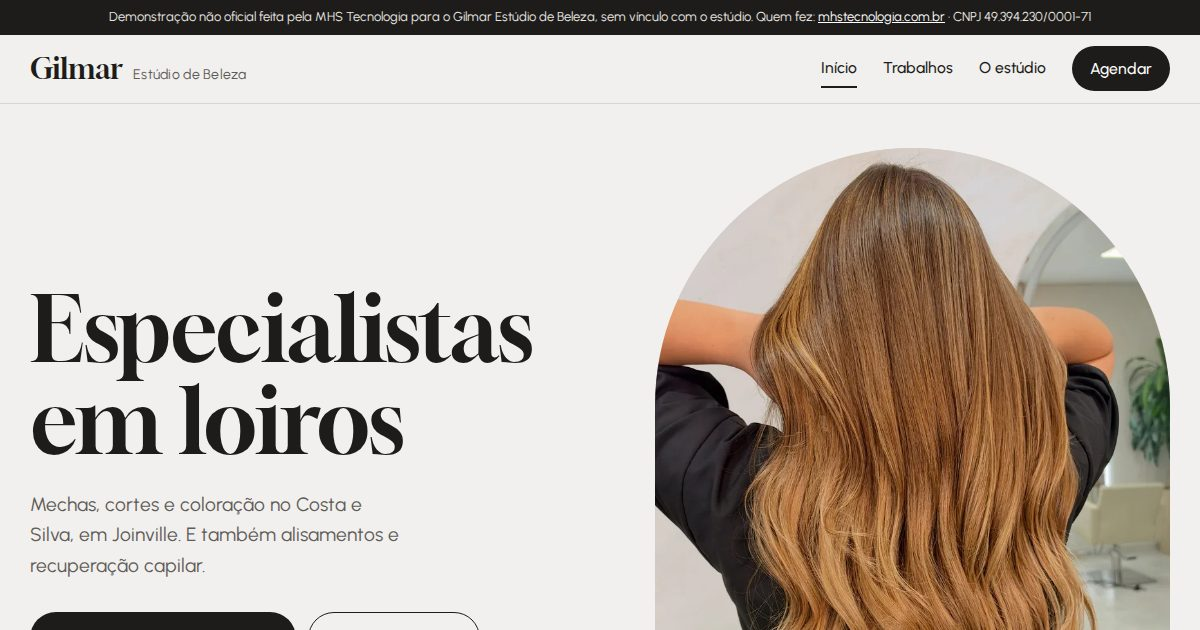
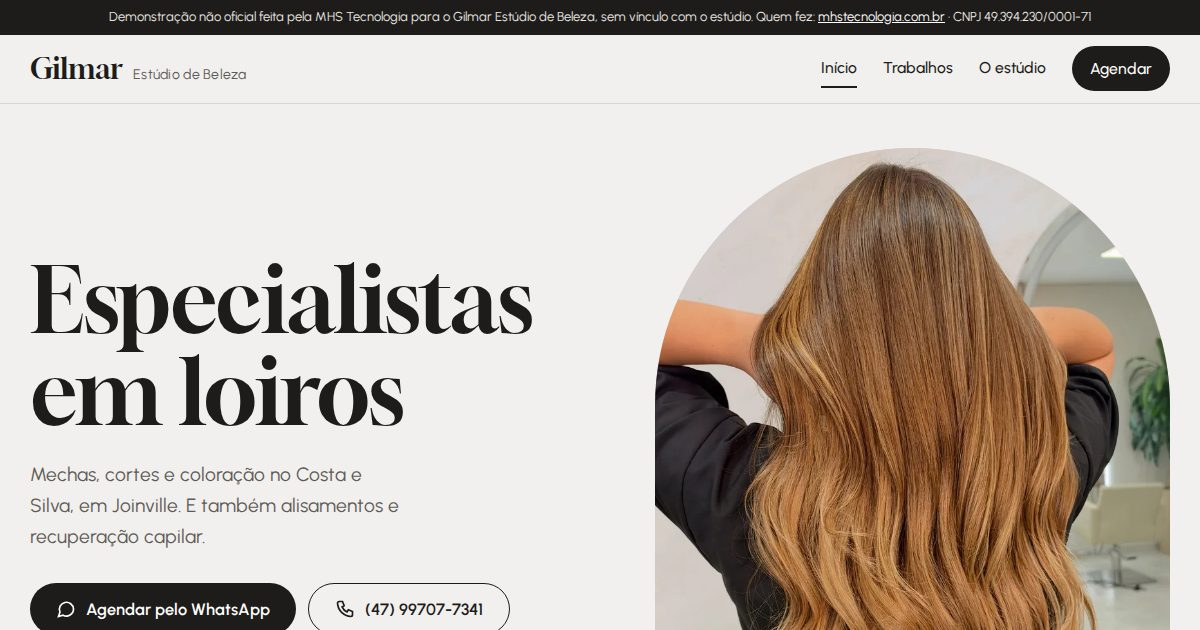
Previews: 123 ativos

Changed region(s): [[0.0308, 0.4222, 0.4625, 0.8143], [0.0, 0.8444, 0.4008, 1.0]]

diff --git a/gilmar-estudio-de-beleza-joinville-sc/trabalhos.html b/gilmar-estudio-de-beleza-joinville-sc/trabalhos.html
@@ -92,7 +92,15 @@
         <a class="btn btn-wa" href="https://wa.me/5547997077341?text=Ol%C3%A1!%20Quero%20agendar%20um%20hor%C3%A1rio%20para%20ruivo.">Quero esse tom</a>
       </div>
       <div class="fotos uma">
-        <img src="img/ruiva-600.webp" srcset="img/ruiva-600.webp 600w, img/ruiva-1000.webp 1000w" sizes="(max-width: 860px) 100vw, 560px" width="600" height="980" loading="lazy" alt="Cliente ruiva com cachos abertos, com o cabeleireiro atrás">
+        <img src="img/ruiva-600.webp" srcset="img/ruiva-600.webp 600w, img/ruiva-1000.webp 1000w" sizes="(max-width: 860px) 100vw, 440px" width="600" height="980" loading="lazy" alt="Cliente ruiva com cachos abertos, com o cabeleireiro atrás">
+        <div class="pedir">
+          <div>
+            <p class="pedir-t">Quer um ruivo assim?</p>
+            <p>Conte no WhatsApp que viu este trabalho e marque seu horário.</p>
+            <a class="btn btn-claro" href="https://wa.me/5547997077341?text=Ol%C3%A1!%20Quero%20agendar%20um%20hor%C3%A1rio%20para%20ruivo.">Agendar pelo WhatsApp</a>
+            <a class="pedir-tel" href="tel:+5547997077341">ou ligue (47) 99707-7341</a>
+          </div>
+        </div>
       </div>
     </div>
   </section>
@@ -106,7 +114,15 @@
         <a class="btn btn-wa" href="https://wa.me/5547997077341?text=Ol%C3%A1!%20Quero%20agendar%20um%20hor%C3%A1rio%20para%20corte.">Quero esse corte</a>
       </div>
       <div class="fotos uma">
-        <img src="img/brancos-curto-600.webp" srcset="img/brancos-curto-600.webp 600w, img/brancos-curto-720.webp 720w" sizes="(max-width: 860px) 100vw, 560px" width="600" height="736" loading="lazy" alt="Corte curto em cabelo branco e grisalho, visto de lado">
+        <img src="img/brancos-curto-600.webp" srcset="img/brancos-curto-600.webp 600w, img/brancos-curto-720.webp 720w" sizes="(max-width: 860px) 100vw, 440px" width="600" height="736" loading="lazy" alt="Corte curto em cabelo branco e grisalho, visto de lado">
+        <div class="pedir">
+          <div>
+            <p class="pedir-t">Quer assumir os brancos?</p>
+            <p>Conte no WhatsApp que viu este trabalho e marque seu horário.</p>
+            <a class="btn btn-claro" href="https://wa.me/5547997077341?text=Ol%C3%A1!%20Quero%20agendar%20um%20hor%C3%A1rio%20para%20corte.">Agendar pelo WhatsApp</a>
+            <a class="pedir-tel" href="tel:+5547997077341">ou ligue (47) 99707-7341</a>
+          </div>
+        </div>
       </div>
     </div>
   </section>
@@ -120,7 +136,15 @@
         <a class="btn btn-wa" href="https://wa.me/5547997077341?text=Ol%C3%A1!%20Quero%20agendar%20um%20alisamento.">Quero alisar</a>
       </div>
       <div class="fotos uma">
-        <img src="img/alisamento-600.webp" srcset="img/alisamento-600.webp 600w, img/alisamento-1000.webp 1000w" sizes="(max-width: 860px) 100vw, 560px" width="600" height="982" loading="lazy" alt="Cabelo castanho liso e brilhante, visto de costas, sendo finalizado">
+        <img src="img/alisamento-600.webp" srcset="img/alisamento-600.webp 600w, img/alisamento-1000.webp 1000w" sizes="(max-width: 860px) 100vw, 440px" width="600" height="982" loading="lazy" alt="Cabelo castanho liso e brilhante, visto de costas, sendo finalizado">
+        <div class="pedir">
+          <div>
+            <p class="pedir-t">Quer os fios lisos assim?</p>
+            <p>Conte no WhatsApp que viu este trabalho e marque seu horário.</p>
+            <a class="btn btn-claro" href="https://wa.me/5547997077341?text=Ol%C3%A1!%20Quero%20agendar%20um%20alisamento.">Agendar pelo WhatsApp</a>
+            <a class="pedir-tel" href="tel:+5547997077341">ou ligue (47) 99707-7341</a>
+          </div>
+        </div>
       </div>
     </div>
   </section>

diff --git a/gilmar-estudio-de-beleza-joinville-sc/index.html b/gilmar-estudio-de-beleza-joinville-sc/index.html
@@ -53,11 +53,12 @@
         <p class="lead">Mechas, cortes e coloração no Costa e Silva, em Joinville. E também alisamentos e recuperação capilar.</p>
         <div class="acoes">
           <a class="btn btn-wa" href="https://wa.me/5547997077341?text=Ol%C3%A1!%20Quero%20agendar%20um%20hor%C3%A1rio%20para%20loiro."><svg viewBox="0 0 24 24" fill="none" stroke="currentColor" stroke-width="2" aria-hidden="true"><path d="M21 12a8.5 8.5 0 0 1-12.6 7.4L3 21l1.7-5.2A8.5 8.5 0 1 1 21 12z"/></svg>Agendar pelo WhatsApp</a>
-          <a class="btn btn-linha" href="tel:+5547997077341">(47) 99707-7341</a>
+          <a class="btn btn-linha btn-tel" href="tel:+5547997077341" aria-label="Ligar para (47) 99707-7341"><svg viewBox="0 0 24 24" fill="none" stroke="currentColor" stroke-width="2" aria-hidden="true"><path d="M5 3h4l2 5-2.5 1.5a11 11 0 0 0 6 6L16 13l5 2v4a2 2 0 0 1-2 2A17 17 0 0 1 3 5a2 2 0 0 1 2-2z"/></svg><span class="tel-num">(47) 99707-7341</span></a>
         </div>
         <ul class="onde">
           <li><svg viewBox="0 0 24 24" fill="none" stroke="currentColor" stroke-width="2" aria-hidden="true"><path d="M12 22s7-6.2 7-12a7 7 0 1 0-14 0c0 5.8 7 12 7 12z"/><circle cx="12" cy="10" r="2.5"/></svg>R. Colibri, 43 - Costa e Silva, Joinville</li>
-          <li><svg viewBox="0 0 24 24" fill="none" stroke="currentColor" stroke-width="2" aria-hidden="true"><circle cx="12" cy="12" r="9"/><path d="M12 7v5l3 2"/></svg>Abrimos de terça à sábado</li>
+          <li class="ig"><svg viewBox="0 0 24 24" fill="none" stroke="currentColor" stroke-width="2" aria-hidden="true"><rect x="3" y="3" width="18" height="18" rx="5"/><circle cx="12" cy="12" r="4"/></svg>21,4 mil seguidores e 1.850 publicações no Instagram</li>
+          <li><svg viewBox="0 0 24 24" fill="none" stroke="currentColor" stroke-width="2" aria-hidden="true"><circle cx="12" cy="12" r="9"/><path d="M12 7v5l3 2"/></svg>De terça a sábado</li>
         </ul>
       </div>
       <div class="arco hero-foto">
@@ -125,9 +126,9 @@
         <h2 id="t-visita">Marque seu horário</h2>
         <dl class="dados">
           <dt>Endereço</dt><dd>R. Colibri, 43 - Costa e Silva, Joinville/SC</dd>
-          <dt>Dias</dt><dd>Abrimos de terça à sábado</dd>
+          <dt>Dias</dt><dd>De terça a sábado</dd>
           <dt>WhatsApp</dt><dd>(47) 99707-7341</dd>
-          <dt>Instagram</dt><dd>@gilmarestudiodebeleza</dd>
+          <dt>Instagram</dt><dd>@gilmarestudiodebeleza, 21,4 mil seguidores</dd>
         </dl>
         <div class="acoes">
           <a class="btn btn-wa" href="https://wa.me/5547997077341?text=Ol%C3%A1!%20Quero%20agendar%20um%20hor%C3%A1rio%20no%20est%C3%BAdio."><svg viewBox="0 0 24 24" fill="none" stroke="currentColor" stroke-width="2" aria-hidden="true"><path d="M21 12a8.5 8.5 0 0 1-12.6 7.4L3 21l1.7-5.2A8.5 8.5 0 1 1 21 12z"/></svg>Agendar pelo WhatsApp</a>

diff --git a/gilmar-estudio-de-beleza-joinville-sc/estilo.css b/gilmar-estudio-de-beleza-joinville-sc/estilo.css
@@ -220,3 +220,33 @@ h1,h2,h3{font-family:var(--display);font-weight:400;line-height:1.04;margin:0;le
 .lista-serv h3 a::after{content:"";position:absolute;inset:0}
 .lista-serv li{position:relative}
 .lista-serv li:has(a):hover h3{text-decoration:underline;text-decoration-thickness:2px;text-underline-offset:6px}
+/* rodada 2 */
+.fotos.uma{grid-template-columns:repeat(2,1fr)}
+.pedir{background:var(--tinta);color:#ece8e2;border-radius:4px;padding:36px 32px;display:flex;flex-direction:column;justify-content:flex-end;gap:26px;aspect-ratio:3/4}
+.pedir img{width:64px;aspect-ratio:120/420;object-fit:cover;border-radius:6px 6px 46% 46% / 6px 6px 12% 12%;margin-bottom:auto}
+.pedir .pedir-t{font-family:var(--display);font-size:clamp(1.8rem,2.8vw,2.4rem);line-height:1.08;color:#fff;margin:0 0 12px}
+.pedir p{margin:0 0 22px}
+.btn-claro{background:#fff;color:var(--tinta)}
+.btn-claro:hover{background:var(--loiro)}
+.pedir-tel{display:block;margin-top:14px;color:#fff;font-size:.95rem}
+.onde .ig{font-weight:600}
+@media (max-width:860px){
+  .fotos.uma{grid-template-columns:1fr}
+  .pedir{aspect-ratio:auto;padding:28px 24px}
+  .pedir img{display:none}
+  .mecha .nome{hyphens:manual;overflow-wrap:normal;word-break:normal;font-size:.74rem;letter-spacing:-.01em}
+  .mechas{gap:8px}
+  .aviso{font-size:.72rem;padding:6px 14px}
+  .topo-in{min-height:58px}
+  .hero{padding-top:18px}
+  .hero .lead{margin:10px 0 16px}
+  .hero-texto{padding-bottom:20px}
+  .acoes{flex-wrap:nowrap}
+  .btn-tel{width:52px;padding:0;flex:none}
+  .btn-tel .tel-num{position:absolute;width:1px;height:1px;overflow:hidden;clip:rect(0 0 0 0);white-space:nowrap}
+  .hero .acoes .btn-wa{flex:1}
+}
+@media (max-width:860px){.mecha .nome{margin:10px -5px 0;white-space:nowrap}.mecha:nth-child(2) .nome{white-space:normal}}
+.fotos.uma{align-items:stretch}
+.fotos.uma > img{height:100%}
+.pedir{aspect-ratio:auto;justify-content:flex-end}

diff --git a/gilmar-estudio-de-beleza-joinville-sc/estudio.html b/gilmar-estudio-de-beleza-joinville-sc/estudio.html
@@ -5,7 +5,7 @@
 <meta name="viewport" content="width=device-width, initial-scale=1">
 <meta name="robots" content="noindex, nofollow">
 <title>O estúdio · Gilmar Estúdio de Beleza</title>
-<meta name="description" content="Gilmar Estúdio de Beleza: R. Colibri, 43, Costa e Silva, Joinville. Abrimos de terça à sábado.">
+<meta name="description" content="Gilmar Estúdio de Beleza: R. Colibri, 43, Costa e Silva, Joinville. De terça a sábado.">
 <meta name="theme-color" content="#f1f0ee">
 <link rel="icon" href="favicon.svg" type="image/svg+xml">
 <link rel="preload" href="fonts/gloock.woff2" as="font" type="font/woff2" crossorigin>
@@ -52,9 +52,9 @@
         <p class="nota">É assim que o estúdio se apresenta no Instagram, onde mostra o trabalho de cada dia: mechas, cortes e coloração.</p>
         <dl class="dados" style="margin-top:34px">
           <dt>Endereço</dt><dd>R. Colibri, 43 - Costa e Silva, Joinville/SC</dd>
-          <dt>Dias</dt><dd>Abrimos de terça à sábado</dd>
+          <dt>Dias</dt><dd>De terça a sábado</dd>
           <dt>WhatsApp</dt><dd>(47) 99707-7341</dd>
-          <dt>Instagram</dt><dd>@gilmarestudiodebeleza</dd>
+          <dt>Instagram</dt><dd>@gilmarestudiodebeleza: 21,4 mil seguidores e 1.850 publicações</dd>
         </dl>
         <div class="acoes">
           <a class="btn btn-wa" href="https://wa.me/5547997077341?text=Ol%C3%A1!%20Quero%20agendar%20um%20hor%C3%A1rio%20no%20est%C3%BAdio."><svg viewBox="0 0 24 24" fill="none" stroke="currentColor" stroke-width="2" aria-hidden="true"><path d="M21 12a8.5 8.5 0 0 1-12.6 7.4L3 21l1.7-5.2A8.5 8.5 0 1 1 21 12z"/></svg>Agendar pelo WhatsApp</a>
